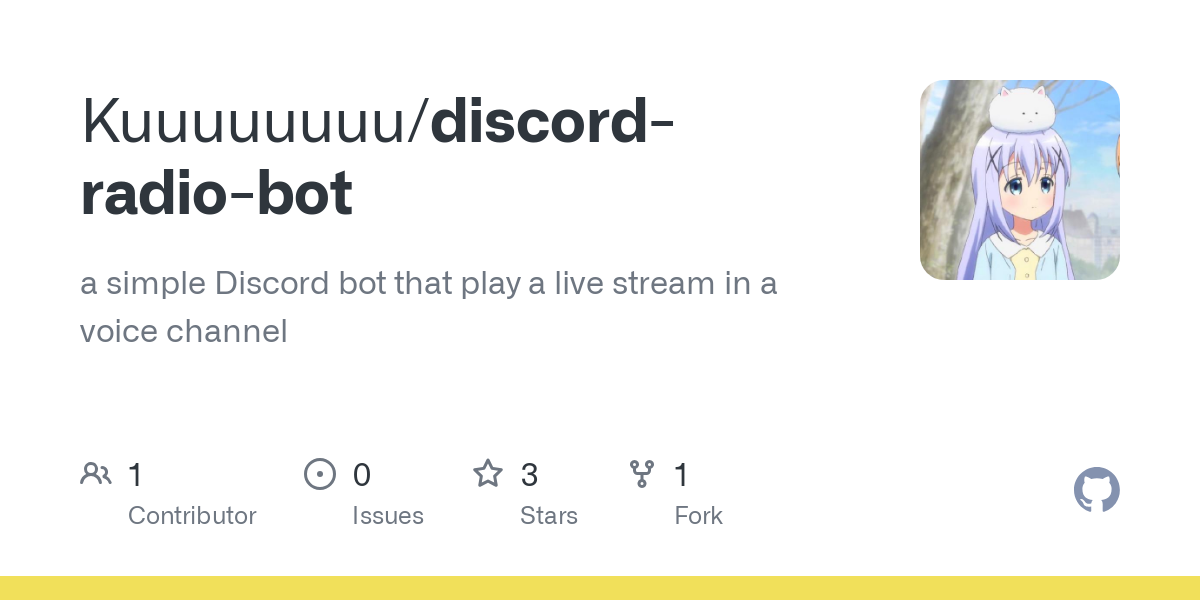
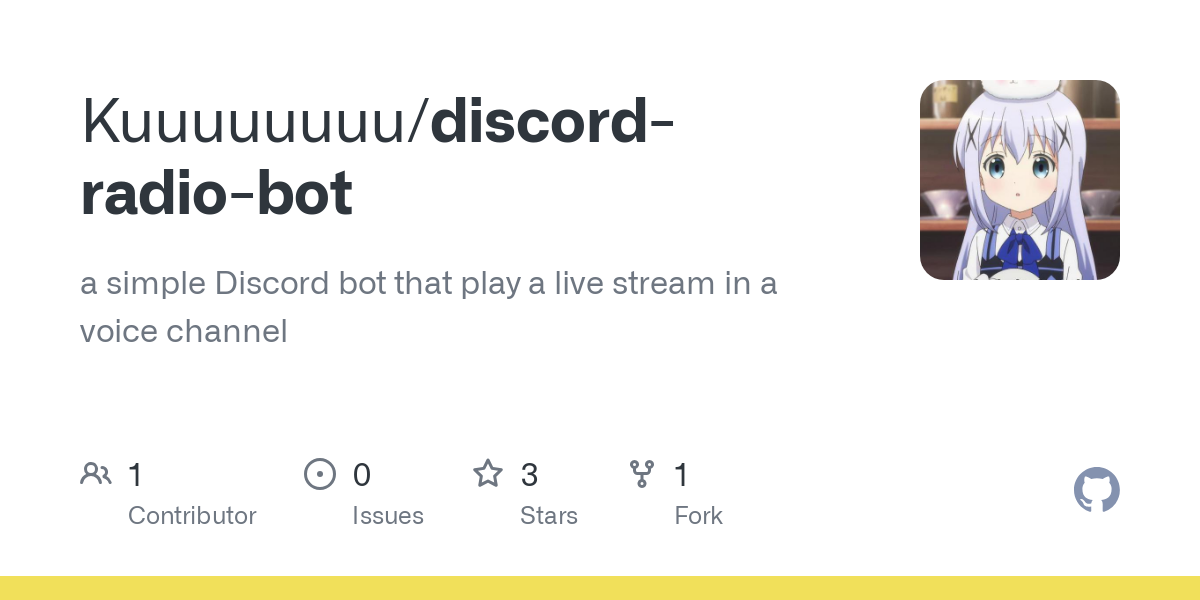
Update assets

Changed region(s): [[0.74, 0.12, 0.9558, 0.48]]

diff --git a/README.md b/README.md
@@ -4,7 +4,7 @@ Powered by Go and GitHub Actions 🚀
 
 <br/>
 
-Last Updated: 2024-09-30 04:03:07
+Last Updated: 2024-09-30 07:13:13
 
 [![Task Status](https://github.com/Kuuuuuuuu/assets/actions/workflows/main.yml/badge.svg)](https://github.com/Kuuuuuuuu/assets/actions/workflows/main.yml)
 
